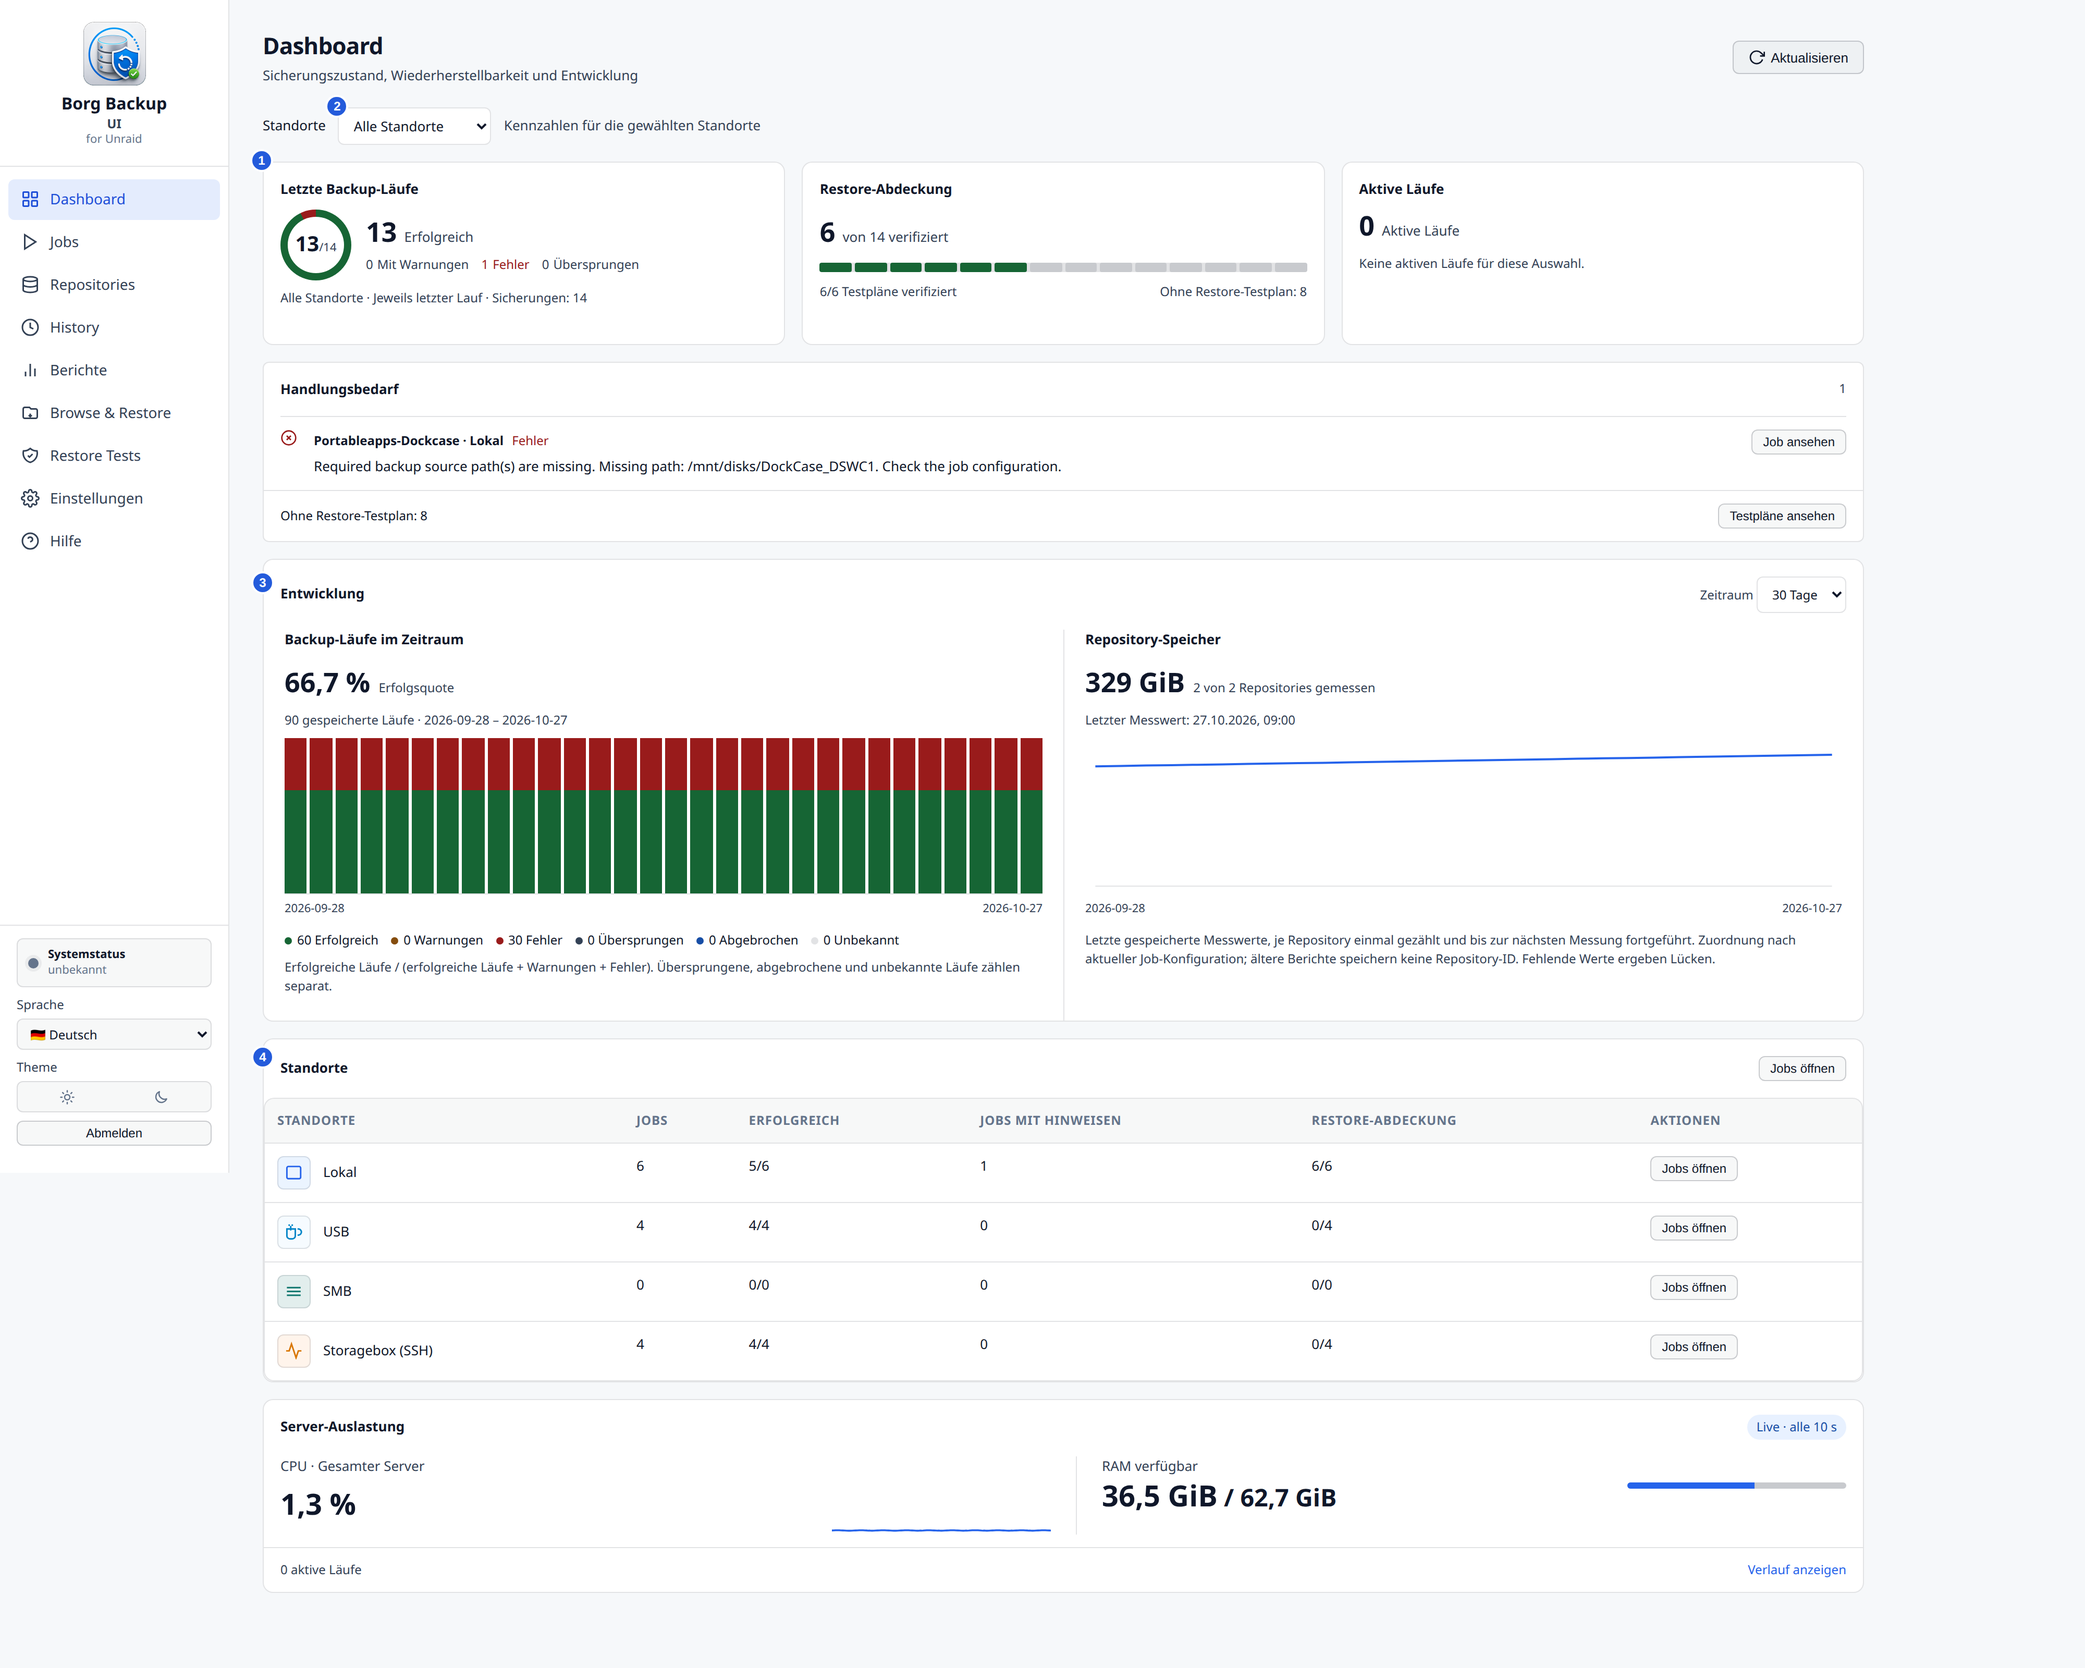
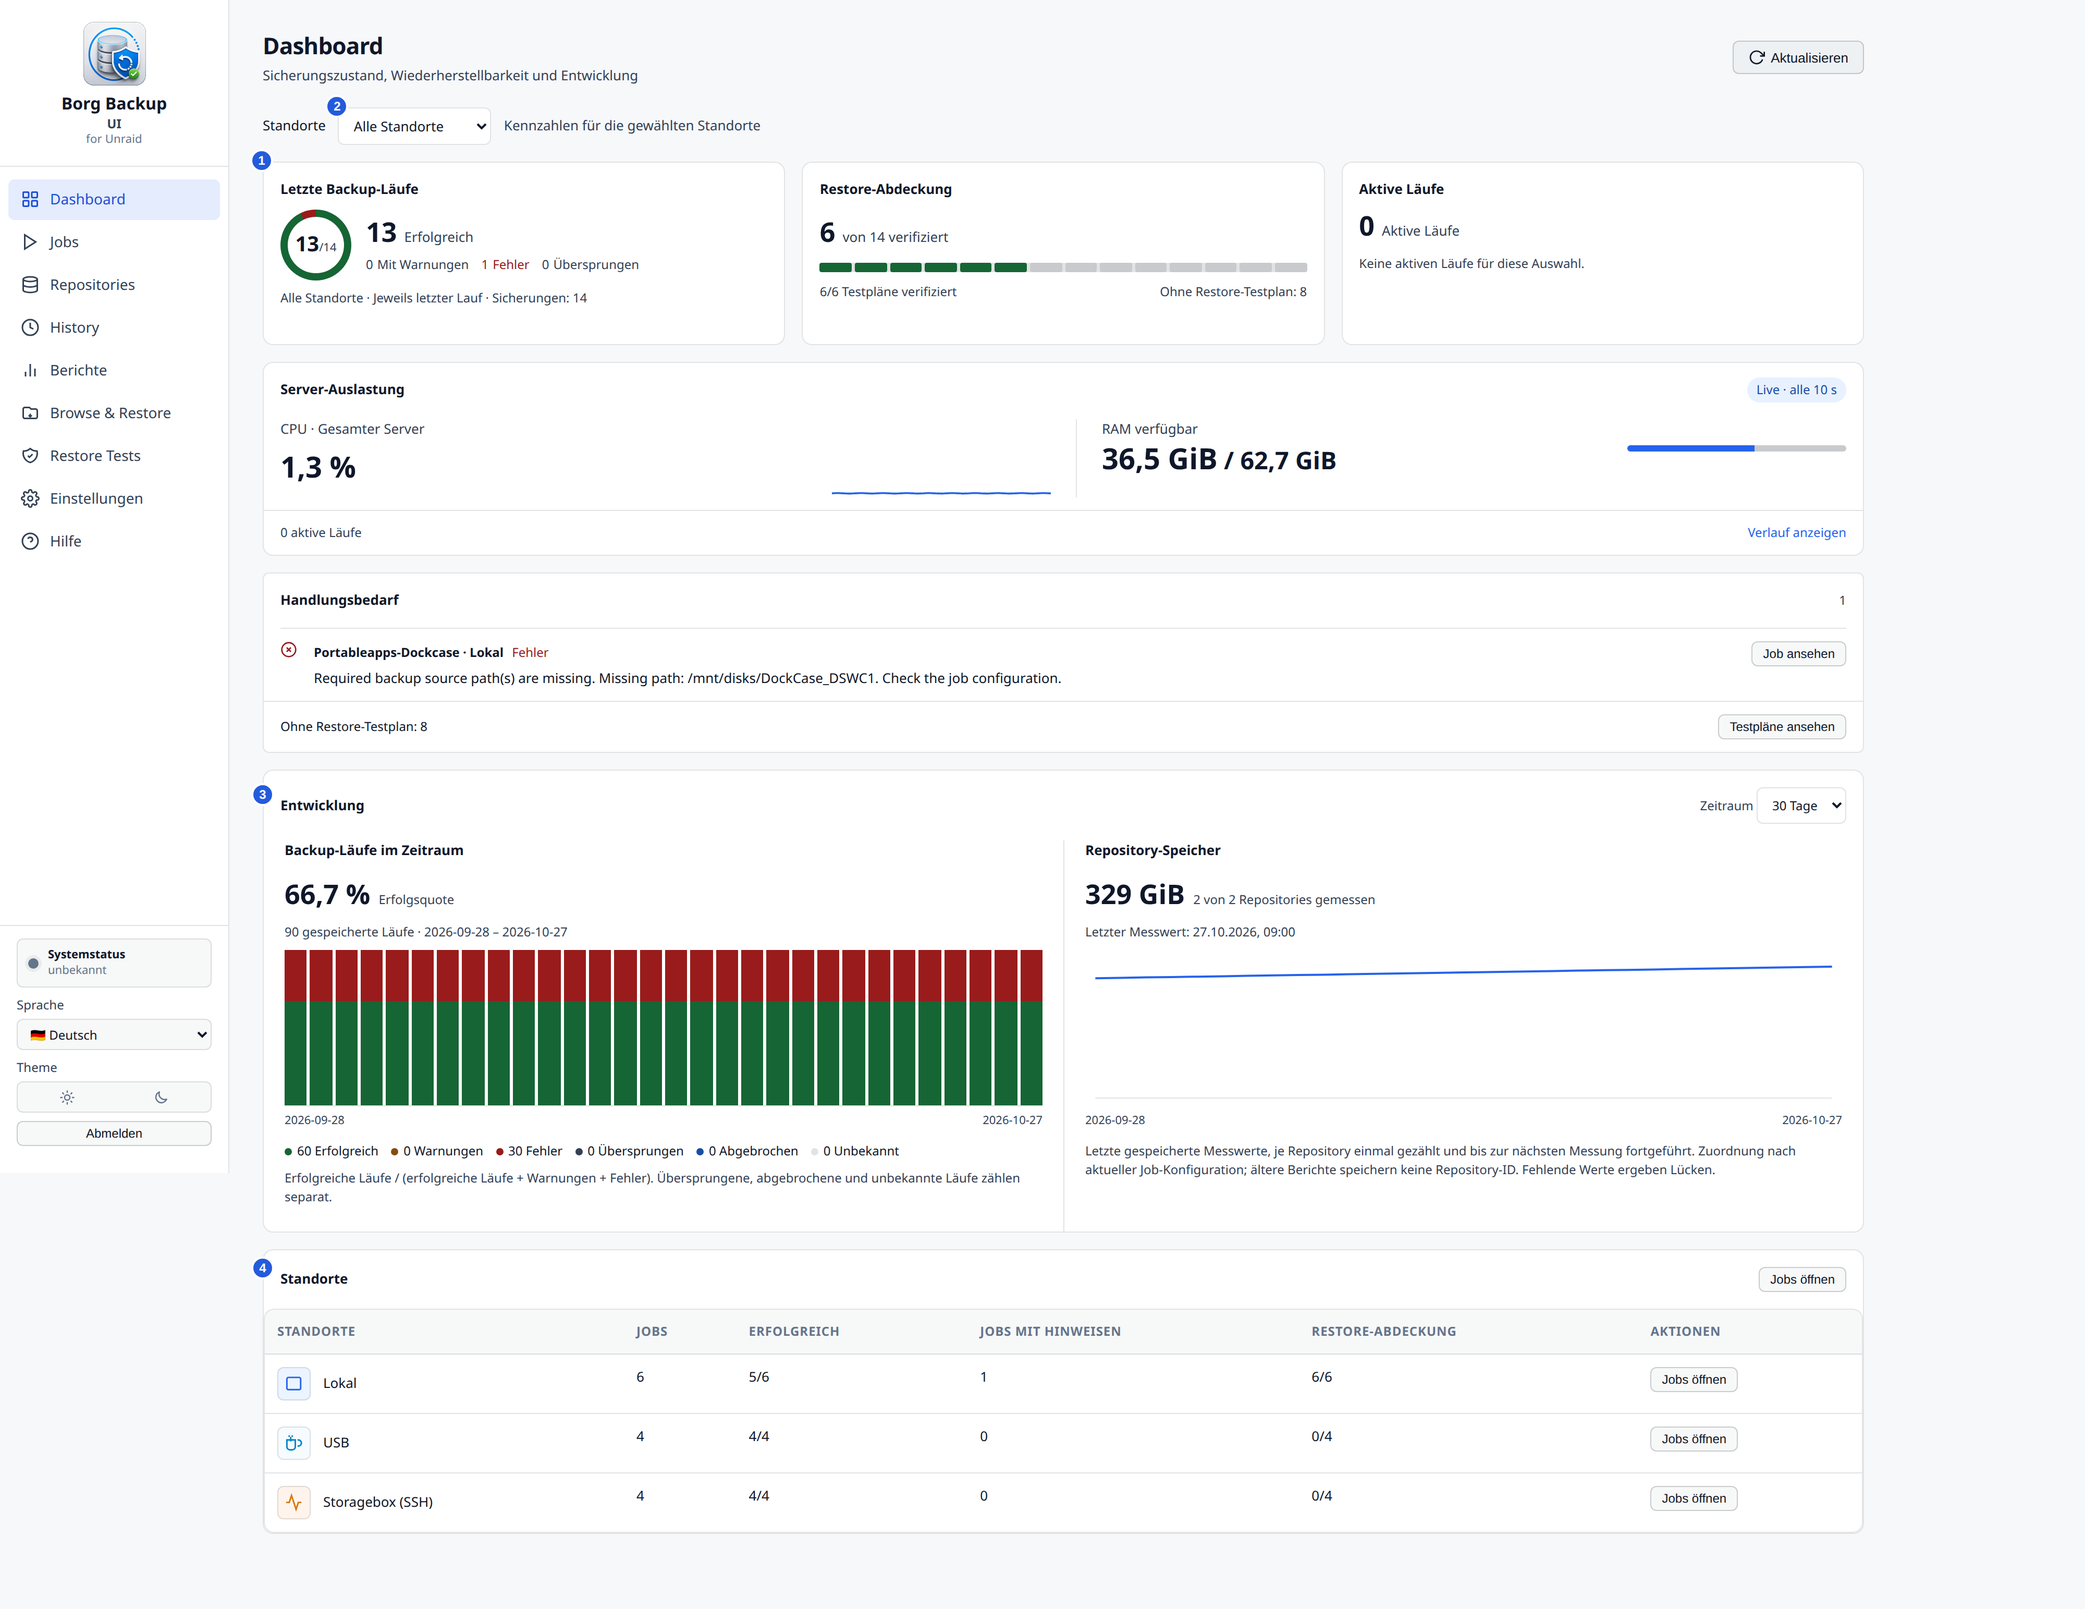
Place server metrics below dashboard summaries (#607)

diff --git a/ui/index.html b/ui/index.html
@@ -231,21 +231,6 @@
           <div id="dashboard-active-runs" class="dashboard-summary-content"></div>
         </section>
       </div>
-      <section id="dashboard-attention" class="dashboard-attention" hidden></section>
-      <div id="dashboard-data-dir-warning" class="status-message hidden"></div>
-      <div id="dashboard-system-warning" class="status-message hidden"></div>
-      <div id="dashboard-setup-actions" class="setup-action-panel hidden"></div>
-      <div id="status-message" class="status-message hidden"></div>
-      <section class="management-panel" aria-labelledby="dashboard-trend-title">
-        <header class="management-heading"><h2 id="dashboard-trend-title" data-i18n="management.trends">Entwicklung</h2>
-          <label><span data-i18n="management.period">Zeitraum</span> <select id="dashboard-period"><option value="7" data-i18n="management.days7">7 Tage</option><option value="30" selected data-i18n="management.days30">30 Tage</option><option value="90" data-i18n="management.days90">90 Tage</option></select></label>
-        </header>
-        <div id="dashboard-trends" aria-live="polite"></div>
-      </section>
-      <section class="management-panel" aria-labelledby="dashboard-locations-title">
-        <header class="management-heading"><h2 id="dashboard-locations-title" data-i18n="dashboard.locations">Standorte</h2><button class="btn btn-secondary btn-sm" data-dashboard-jobs="" data-i18n="management.openJobs">Jobs öffnen</button></header>
-        <div id="dashboard-locations" class="ui-table-wrap"></div>
-      </section>
       <section id="dashboard-resources" class="dashboard-resources" aria-labelledby="resource-title">
         <header class="resource-header">
           <h2 id="resource-title" data-i18n="resources.title">Server-Auslastung</h2>
@@ -262,6 +247,21 @@
         <div id="resource-tests" class="resource-tests" hidden></div>
       </section>
       <div id="resource-history" class="resource-history" role="region" aria-labelledby="resource-title" hidden></div>
+      <section id="dashboard-attention" class="dashboard-attention" hidden></section>
+      <div id="dashboard-data-dir-warning" class="status-message hidden"></div>
+      <div id="dashboard-system-warning" class="status-message hidden"></div>
+      <div id="dashboard-setup-actions" class="setup-action-panel hidden"></div>
+      <div id="status-message" class="status-message hidden"></div>
+      <section class="management-panel" aria-labelledby="dashboard-trend-title">
+        <header class="management-heading"><h2 id="dashboard-trend-title" data-i18n="management.trends">Entwicklung</h2>
+          <label><span data-i18n="management.period">Zeitraum</span> <select id="dashboard-period"><option value="7" data-i18n="management.days7">7 Tage</option><option value="30" selected data-i18n="management.days30">30 Tage</option><option value="90" data-i18n="management.days90">90 Tage</option></select></label>
+        </header>
+        <div id="dashboard-trends" aria-live="polite"></div>
+      </section>
+      <section class="management-panel" aria-labelledby="dashboard-locations-title">
+        <header class="management-heading"><h2 id="dashboard-locations-title" data-i18n="dashboard.locations">Standorte</h2><button class="btn btn-secondary btn-sm" data-dashboard-jobs="" data-i18n="management.openJobs">Jobs öffnen</button></header>
+        <div id="dashboard-locations" class="ui-table-wrap"></div>
+      </section>
 
     </div>
 

diff --git a/docs/user-manual/de/user-manual.md b/docs/user-manual/de/user-manual.md
@@ -181,7 +181,7 @@ Bei automatischer Aktualisierung bleiben die Diagramme während des Nachladens s
 
 Die **Standorte**-Tabelle fasst Jobanzahl, letzte Erfolge, Jobs mit Hinweisen und Restore-Abdeckung zusammen. **Jobs öffnen** führt zur passenden Standortauswahl. Einzelne Jobdetails und Aktionen befinden sich auf der Jobs-Seite.
 
-Die **Server-Auslastung** am Seitenende bleibt standortübergreifend. CPU und RAM sowie der aufklappbare Verlauf nutzen die gesamte Breite. Laufende geschützte Restore-Tests erscheinen ebenfalls über die volle Breite, auch bei geschlossenem Verlauf. Auf schmalen Bildschirmen stehen die Diagramme untereinander.
+Die **Server-Auslastung** direkt unter der Kennzahlenreihe mit **Letzte Backup-Läufe** bleibt standortübergreifend. CPU und RAM sowie der aufklappbare Verlauf nutzen die gesamte Breite. Laufende geschützte Restore-Tests erscheinen ebenfalls über die volle Breite, auch bei geschlossenem Verlauf. Auf schmalen Bildschirmen stehen die Diagramme untereinander.
 
 ### 2.6 Unraid-Dashboard-Widget
 
@@ -195,11 +195,11 @@ Das Widget liest eine vorberechnete Statusdatei auf dem Flash-Laufwerk. Sein Akt
 
 ### 2.7 Server-Auslastung
 
-Der Bereich am Seitenende zeigt CPU-Auslastung und verfügbaren RAM des **gesamten Unraid-Hosts**, einschließlich VMs, Containern und Borg. 100 % CPU entspricht allen logischen CPU-Kernen zusammen; I/O-Wartezeit wird nicht als CPU-Arbeit gezählt. Verfügbarer RAM ist Linux `MemAvailable`, einschließlich freigebbarem Cache, nicht nur völlig ungenutzter Speicher.
+Der Bereich direkt unter den aktuellen Kennzahlen zeigt CPU-Auslastung und verfügbaren RAM des **gesamten Unraid-Hosts**, einschließlich VMs, Containern und Borg. 100 % CPU entspricht allen logischen CPU-Kernen zusammen; I/O-Wartezeit wird nicht als CPU-Arbeit gezählt. Verfügbarer RAM ist Linux `MemAvailable`, einschließlich freigebbarem Cache, nicht nur völlig ungenutzter Speicher.
 
 Aktive Läufe zählen die über Ressourcensperren erfassten Backups, Restores und Restore-Tests, pro Lauf einmal. Reine Browse-Anfragen zählen nicht als Lauf; ihre Last ist dennoch in den Hostwerten enthalten. Für einen geschützten Restore-Test erscheint zusätzlich dessen gemeinsame cgroup-Auslastung: CPU, RAM einschließlich Dateicache und Unterprozessen sowie das tatsächlich gesetzte RAM-Limit. Wartende Tests oder Tests mit ausgeschaltetem Schutz erhalten keine fremden Messwerte. Fehlende Messwerte erscheinen als Strich, nicht als Null.
 
-Der aufgeklappte Server-Verlauf nutzt am Seitenende die volle Breite: CPU und RAM stehen nebeneinander, auf schmalen Bildschirmen untereinander. Laufende Tests erscheinen ebenfalls am Seitenende über die volle Inhaltsbreite, mit Jobname, CPU, RAM, Speicherlimit und Hostreserve. Dieser Bereich bleibt auch bei eingeklapptem Verlauf sichtbar und verschwindet, sobald keine aktiven Läufe oder Testmesswerte mehr gemeldet werden. Die Server-Auslastung bleibt standortübergreifend.
+Der aufgeklappte Server-Verlauf nutzt unterhalb der Server-Metriken die volle Breite: CPU und RAM stehen nebeneinander, auf schmalen Bildschirmen untereinander. Laufende Tests erscheinen ebenfalls unterhalb der Server-Metriken über die volle Inhaltsbreite, mit Jobname, CPU, RAM, Speicherlimit und Hostreserve. Dieser Bereich bleibt auch bei eingeklapptem Verlauf sichtbar und verschwindet, sobald keine aktiven Läufe oder Testmesswerte mehr gemeldet werden. Die Server-Auslastung bleibt standortübergreifend.
 
 Der RAM-Balken zeigt den verfügbaren Anteil am gesamten RAM; der CPU-Minitrend bleibt eingeklappt sichtbar.
 

diff --git a/docs/user-manual/en/user-manual.md b/docs/user-manual/en/user-manual.md
@@ -173,7 +173,7 @@ During automatic refresh, charts remain visible while new data loads. Trends and
 
 The **Locations** table summarizes job counts, latest successes, jobs needing attention and restore coverage. **Open jobs** navigates to the matching location selection. Individual job details and actions belong on the Jobs page.
 
-**Server resources** at the bottom remain global. CPU, RAM and expandable history use the full width. Active protected restore tests also use the full width, even with history collapsed. Charts stack on narrow screens.
+**Server resources** directly below the summary row containing **Latest backup runs** remain global. CPU, RAM and expandable history use the full width. Active protected restore tests also use the full width, even with history collapsed. Charts stack on narrow screens.
 
 ### 2.6 Unraid Dashboard Widget
 
@@ -187,11 +187,11 @@ Skipped runs have their own **Skipped** counter. A separate overdue condition st
 
 ### 2.7 Server Resources
 
-The section at the bottom shows CPU utilization and available RAM for the **entire Unraid host**, including VMs, containers and Borg. 100% CPU means all logical CPU cores combined; I/O wait is not counted as CPU work. Available RAM uses Linux `MemAvailable`, including reclaimable cache, rather than only completely unused memory.
+The section directly below the current summary metrics shows CPU utilization and available RAM for the **entire Unraid host**, including VMs, containers and Borg. 100% CPU means all logical CPU cores combined; I/O wait is not counted as CPU work. Available RAM uses Linux `MemAvailable`, including reclaimable cache, rather than only completely unused memory.
 
 Active runs count backups, restores and restore tests tracked by resource locks, once per run. Browsing requests do not count as runs, but their load is included in host measurements. A protected restore test additionally shows its shared cgroup consumption: CPU, RAM including file cache and child processes, and the actual enforced RAM limit. Waiting tests and tests with protection disabled never inherit another test's measurements. Missing measurements show a dash instead of zero.
 
-Expanded resource history uses the full width at the bottom: CPU and RAM appear side by side, stacking on narrow screens. Active tests also appear across the full width at the bottom, with job name, CPU, RAM, memory limit and host reserve. This area stays visible with history collapsed and disappears when no active runs or test metrics are reported. Server resources remain independent of the location filter.
+Expanded resource history uses the full width below the server metrics: CPU and RAM appear side by side, stacking on narrow screens. Active tests also appear across the full width below the server metrics, with job name, CPU, RAM, memory limit and host reserve. This area stays visible with history collapsed and disappears when no active runs or test metrics are reported. Server resources remain independent of the location filter.
 
 The RAM bar shows the available share of total RAM; the CPU mini trend remains visible while history is collapsed.
 

diff --git a/release-notes/pending/607.md b/release-notes/pending/607.md
@@ -2,6 +2,6 @@
 
 - Replace the duplicate dashboard job inventory with a management overview: location-scoped latest outcomes, restore coverage, active runs, actionable problems, 7/30/90-day run statistics, measured repository storage and location totals. Shared repositories count once; missing measurements remain unknown. (#607)
 - Add an independent inline saved-status section to Jobs with storage, check, restore and archive details. Show complete saved failure/warning messages directly in each card while retaining the existing workflow timeline and run details. (#607)
-- Show server history and active restore-test resource details across the full dashboard width, with CPU and RAM side by side on wide screens. (#607)
+- Place server metrics directly below the latest-backup summary row, with server history and active restore-test resource details across the full dashboard width, with CPU and RAM side by side on wide screens. (#607)
 
 - Keep dashboard trends and location totals stable during background refresh and hide locations without jobs from the dashboard table and filter. (#607)

diff --git a/ui/docs/help.md b/ui/docs/help.md
@@ -59,7 +59,7 @@ Drei Karten zeigen **Letzte Backup-Läufe**, **Restore-Abdeckung** und **Aktive 
 
 Die **Standorte**-Tabelle fasst Jobanzahl, letzte Erfolge, Jobs mit Hinweisen und Restore-Abdeckung zusammen. **Jobs öffnen** führt zur passenden Standortauswahl. Einzelne Jobdetails und Aktionen befinden sich auf der Jobs-Seite.
 
-Die **Server-Auslastung** am Seitenende bleibt standortübergreifend. CPU und RAM sowie der aufklappbare Verlauf nutzen die gesamte Breite. Laufende geschützte Restore-Tests erscheinen ebenfalls über die volle Breite, auch bei geschlossenem Verlauf. Auf schmalen Bildschirmen stehen die Diagramme untereinander.
+Die **Server-Auslastung** direkt unter der Kennzahlenreihe mit **Letzte Backup-Läufe** bleibt standortübergreifend. CPU und RAM sowie der aufklappbare Verlauf nutzen die gesamte Breite. Laufende geschützte Restore-Tests erscheinen ebenfalls über die volle Breite, auch bei geschlossenem Verlauf. Auf schmalen Bildschirmen stehen die Diagramme untereinander.
 
 ## 4. Speicherziele und Profile
 

diff --git a/ui/docs/help.en.md b/ui/docs/help.en.md
@@ -59,7 +59,7 @@ Three cards show **Latest backup runs**, **Restore coverage** and **Active runs*
 
 The **Locations** table summarizes job counts, latest successes, jobs needing attention and restore coverage. **Open jobs** navigates to the matching location selection. Individual job details and actions belong on the Jobs page.
 
-**Server resources** at the bottom remain global. CPU, RAM and expandable history use the full width. Active protected restore tests also use the full width, even with history collapsed. Charts stack on narrow screens.
+**Server resources** directly below the summary row containing **Latest backup runs** remain global. CPU, RAM and expandable history use the full width. Active protected restore tests also use the full width, even with history collapsed. Charts stack on narrow screens.
 
 ## 4. Storage Targets and Profiles
 
